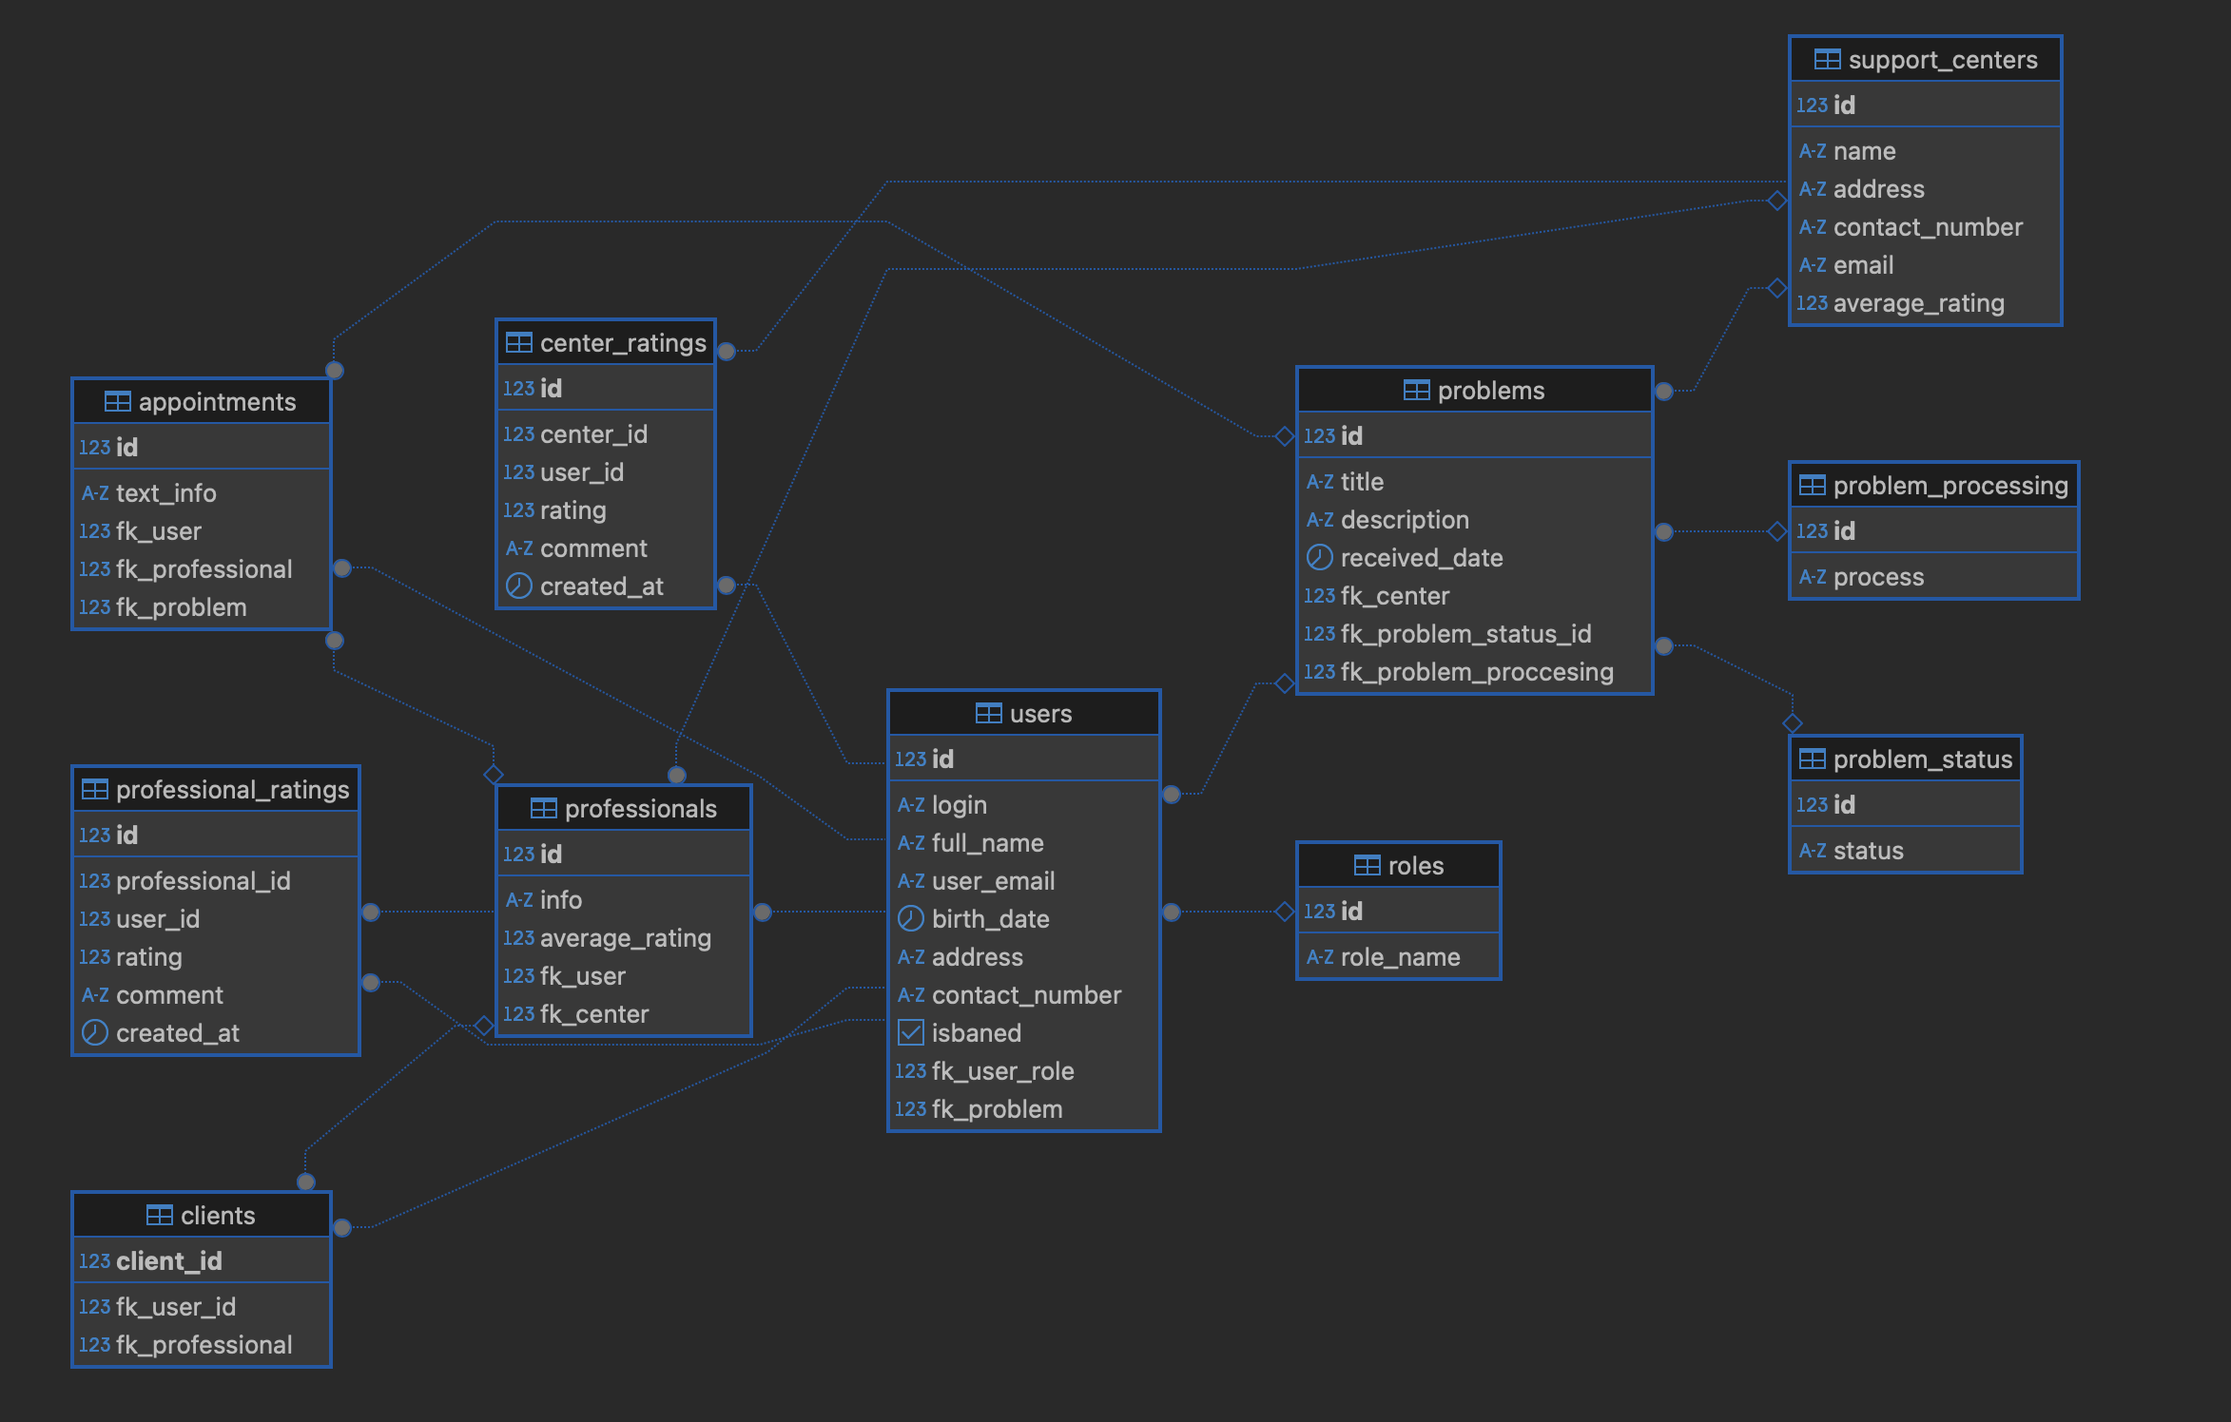
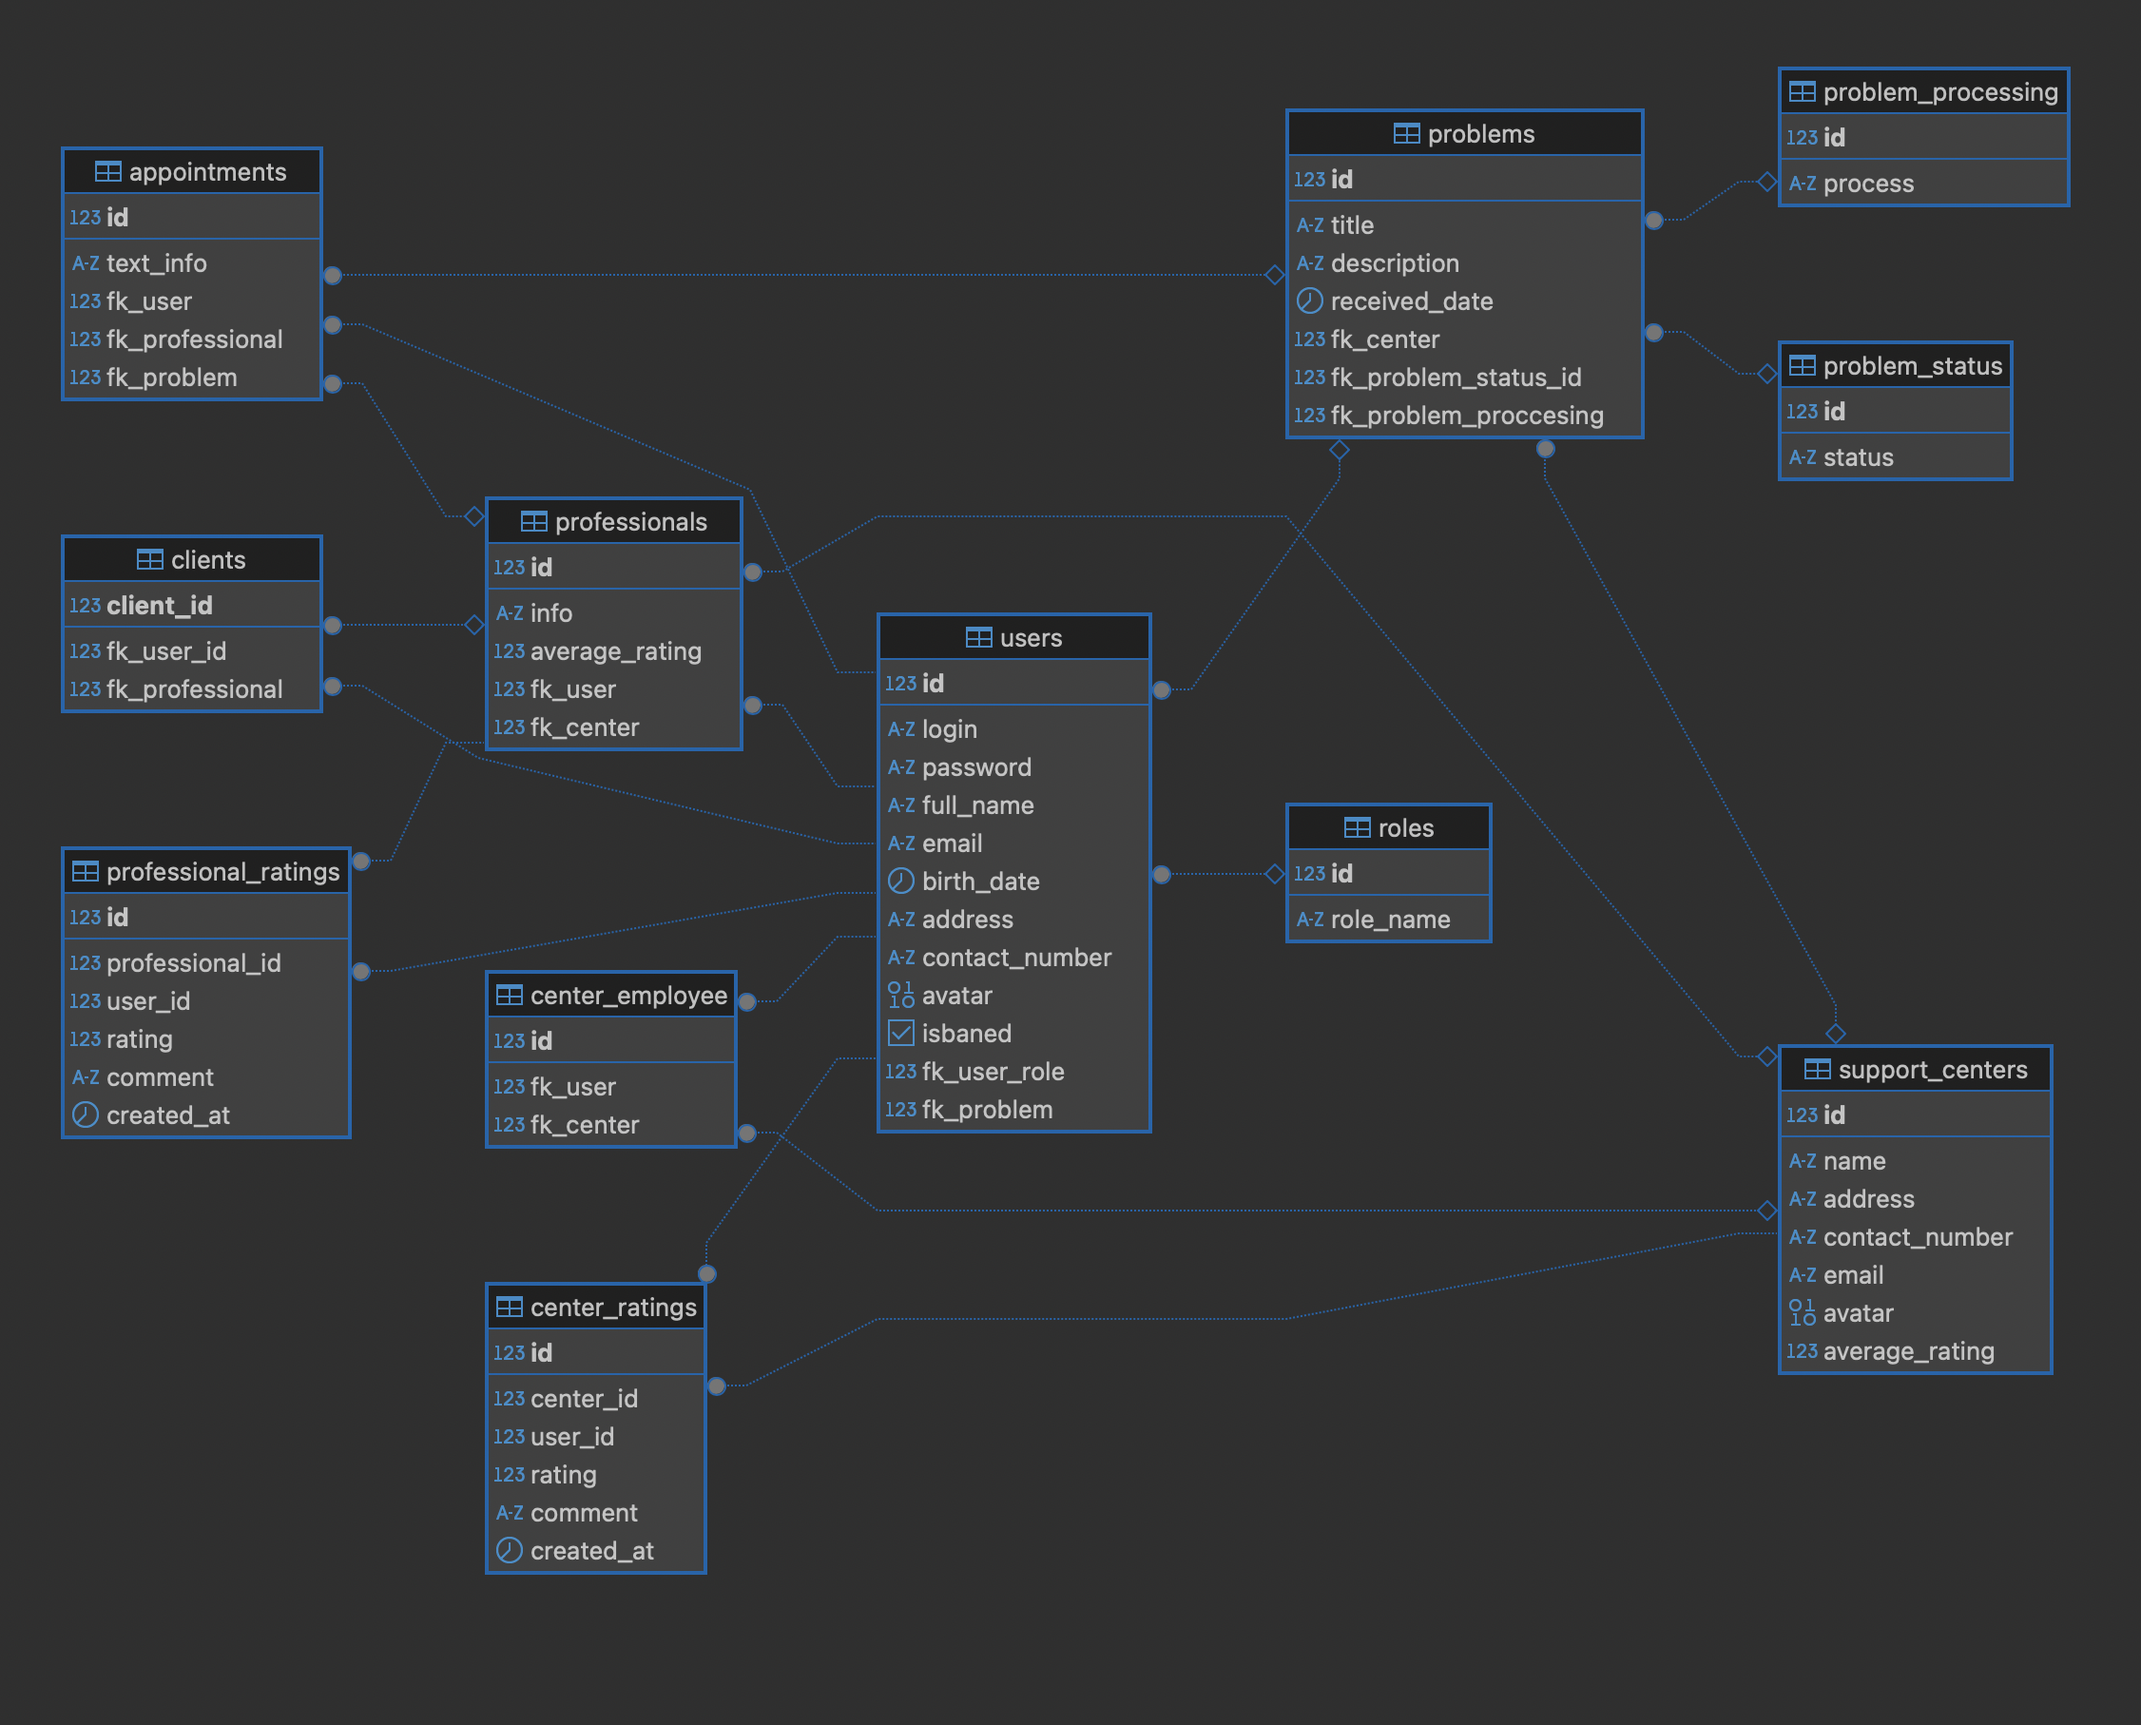
docs: db,api

diff --git a/HelpNear-client/src/api/api.config.ts b/HelpNear-client/src/api/api.config.ts
@@ -36,6 +36,7 @@ export const API_CONFIG = {
     ADMIN: {
       BASE_URL: 'admin/',
       GET_USERS: 'admin/get-users',
+      ADD_SUPPORT_CENTER: 'admin/add-support-center',
     },
   },
 };

diff --git a/Doc/DB.md b/Doc/DB.md
@@ -17,7 +17,7 @@ CREATE TABLE problem_status (
     status varchar(50) NOT NULL DEFAULT 'Minor'
 );
 
- create table problem_processing(
+create table problem_processing(
     id bigserial NOT NULL PRIMARY KEY,
     process varchar(50) NOT NULL DEFAULT 'idle'
 );
@@ -28,7 +28,8 @@ CREATE TABLE support_centers (
     address varchar(100) NOT NULL,
     contact_number varchar(15) NOT NULL,
     email varchar(50),
-    average_rating DECIMAL(3,2) DEFAULT NULL
+    avatar bytea not null,
+    average_rating DECIMAL(3,2) DEFAULT null
 );
 
 CREATE TABLE problems (
@@ -45,11 +46,13 @@ CREATE TABLE problems (
 CREATE TABLE users (
     id bigserial NOT NULL PRIMARY KEY,
     login varchar(50) NOT NULL,
+    password varchar(50) not null,
     full_name varchar(100) NOT NULL,
-    user_email varchar(50) NOT NULL,
+    email varchar(50) NOT NULL,
     birth_date date NOT NULL,
     address varchar(100) NOT NULL,
     contact_number varchar(15) NOT NULL,
+    avatar bytea,
     isBaned boolean not null default false,
     fk_user_role int REFERENCES roles(id) ON DELETE CASCADE,
     fk_problem int REFERENCES problems(id) ON DELETE cascade
@@ -59,6 +62,12 @@ CREATE TABLE professionals (
     id bigserial PRIMARY KEY,
     info TEXT not null,
     average_rating DECIMAL(3,2) DEFAULT NULL,
+    fk_user int NOT NULL UNIQUE REFERENCES users(id) ON DELETE CASCADE,
+    fk_center int REFERENCES support_centers(id) ON DELETE CASCADE
+);
+
+create table center_employee(
+	id bigserial PRIMARY KEY,
     fk_user int NOT NULL UNIQUE REFERENCES users(id) ON DELETE CASCADE,
     fk_center int REFERENCES support_centers(id) ON DELETE CASCADE
 );

diff --git a/Doc/Ru/ApiUrls.md b/Doc/Ru/ApiUrls.md
@@ -361,6 +361,20 @@ text_info:string
 
 **Описание**: Центр завершает проблему и ставить статус `fulfilled`
 
+#### support-center/{add/remove}/professionals
+
+**Метод**: `POST`
+
+**Описание**: Добавление или удаление профессионала с центра
+
+***Отправка***
+
+id профессионала
+
+```ts
+id:number
+```
+
 ### ADMIN
 
 #### admin/get-users
@@ -383,3 +397,19 @@ text_info:string
 **Метод**: `PUT`
 
 **Описание**: Взаимодействие с пользователями, action это что сделать надо с пользователем. Actions: `ban, unBan, setAdmin, removeAdmin`
+
+#### admin/add-support-center
+
+**Метод**: `POST`
+
+**Описание**: Админ добавляет центр
+
+***Отправка***
+
+```ts
+name:string
+address:string
+contact_number:string
+email:string
+avatar:bytea
+```
